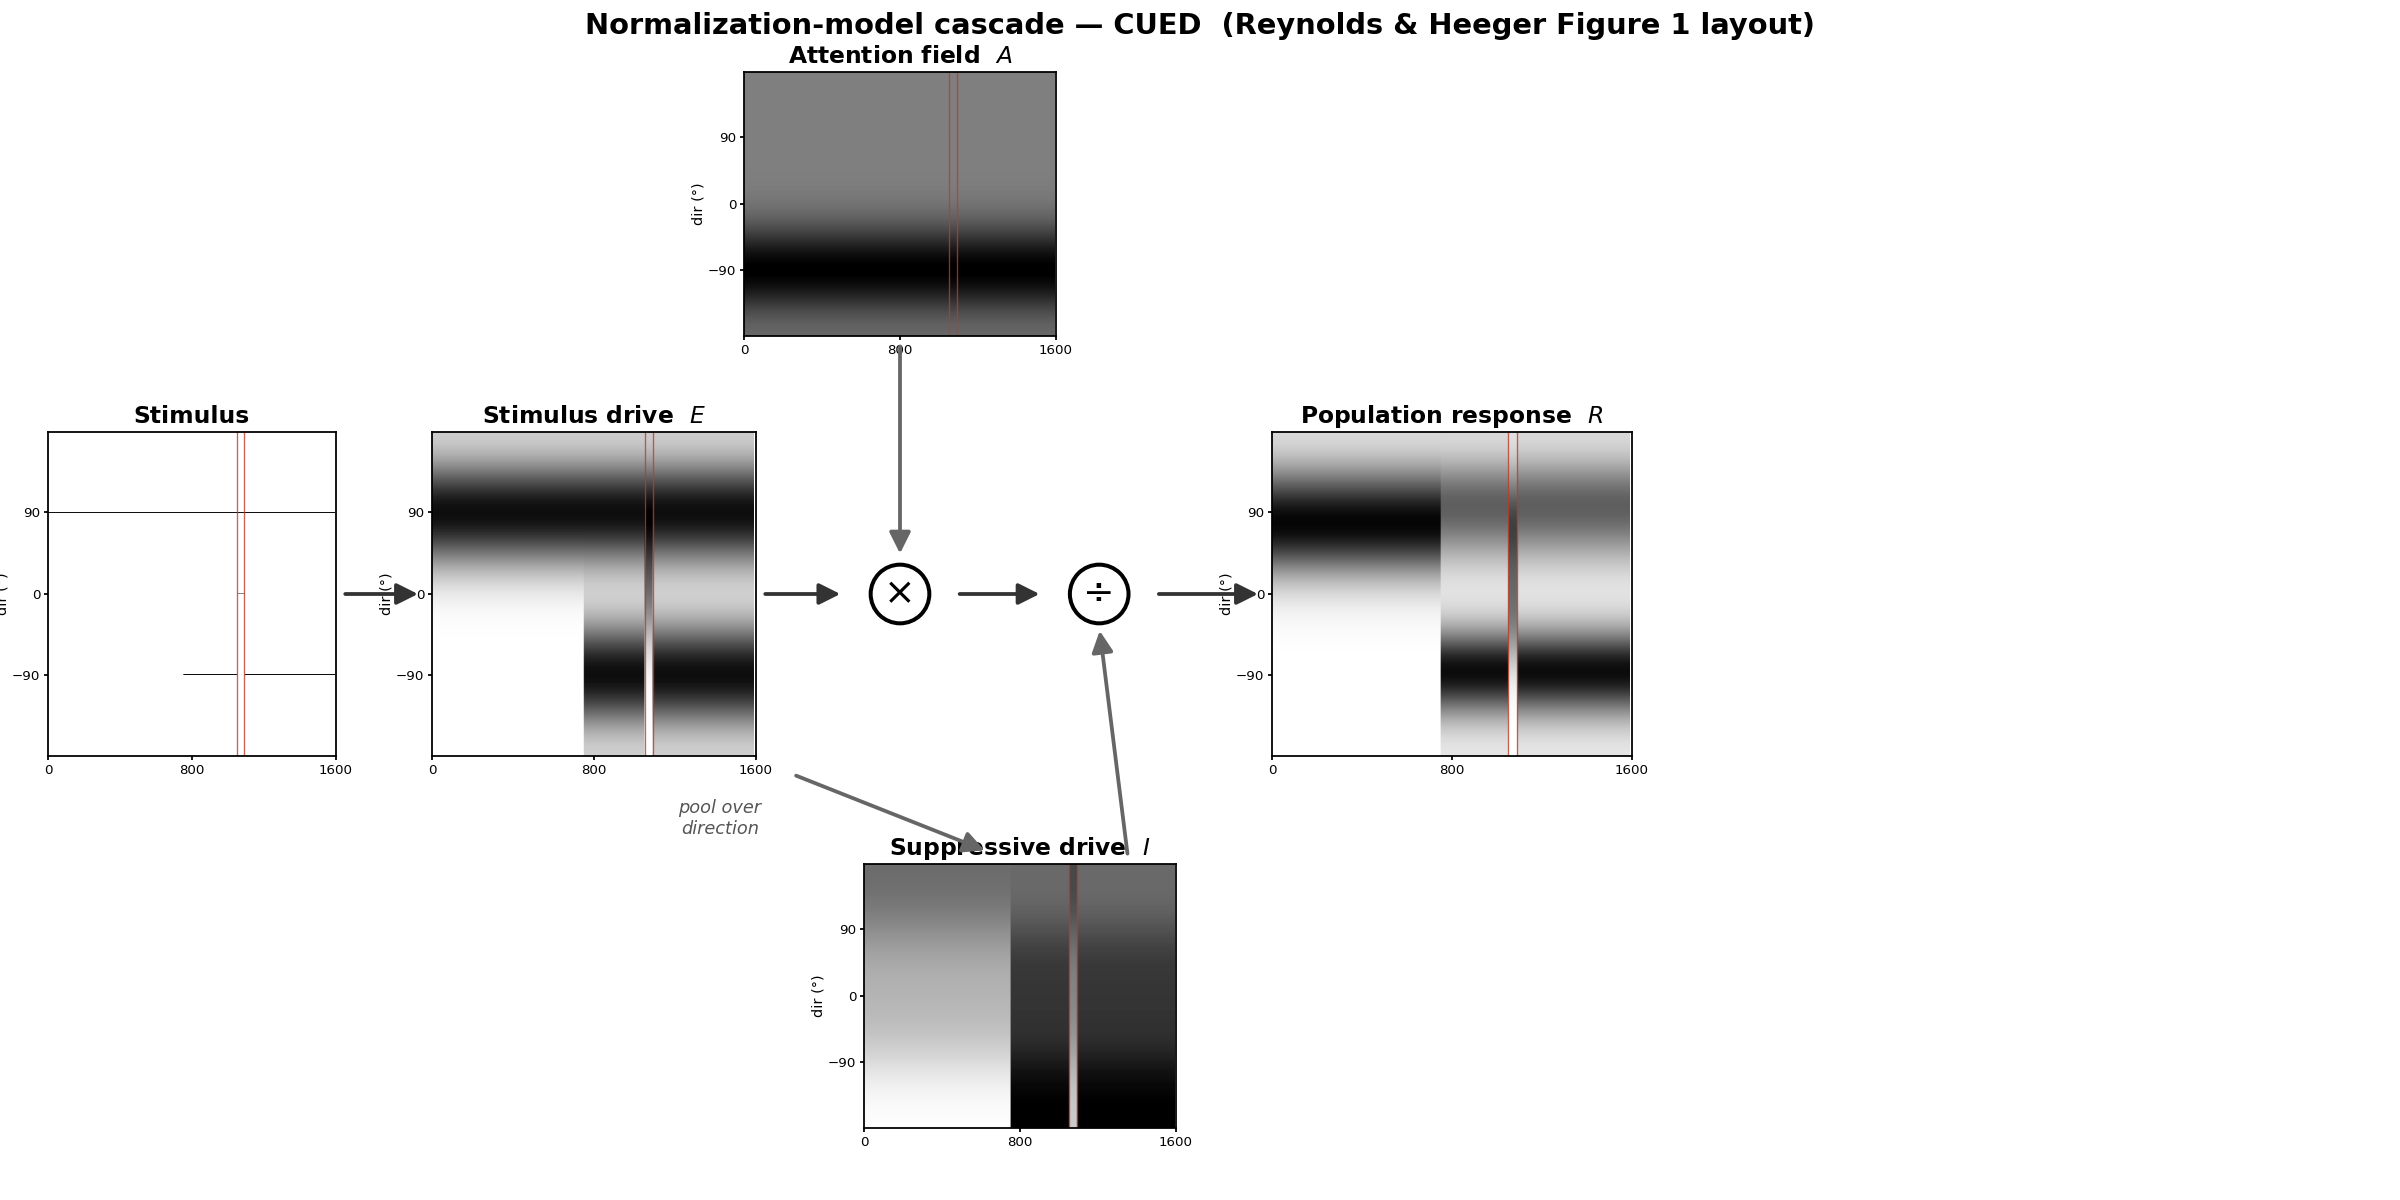
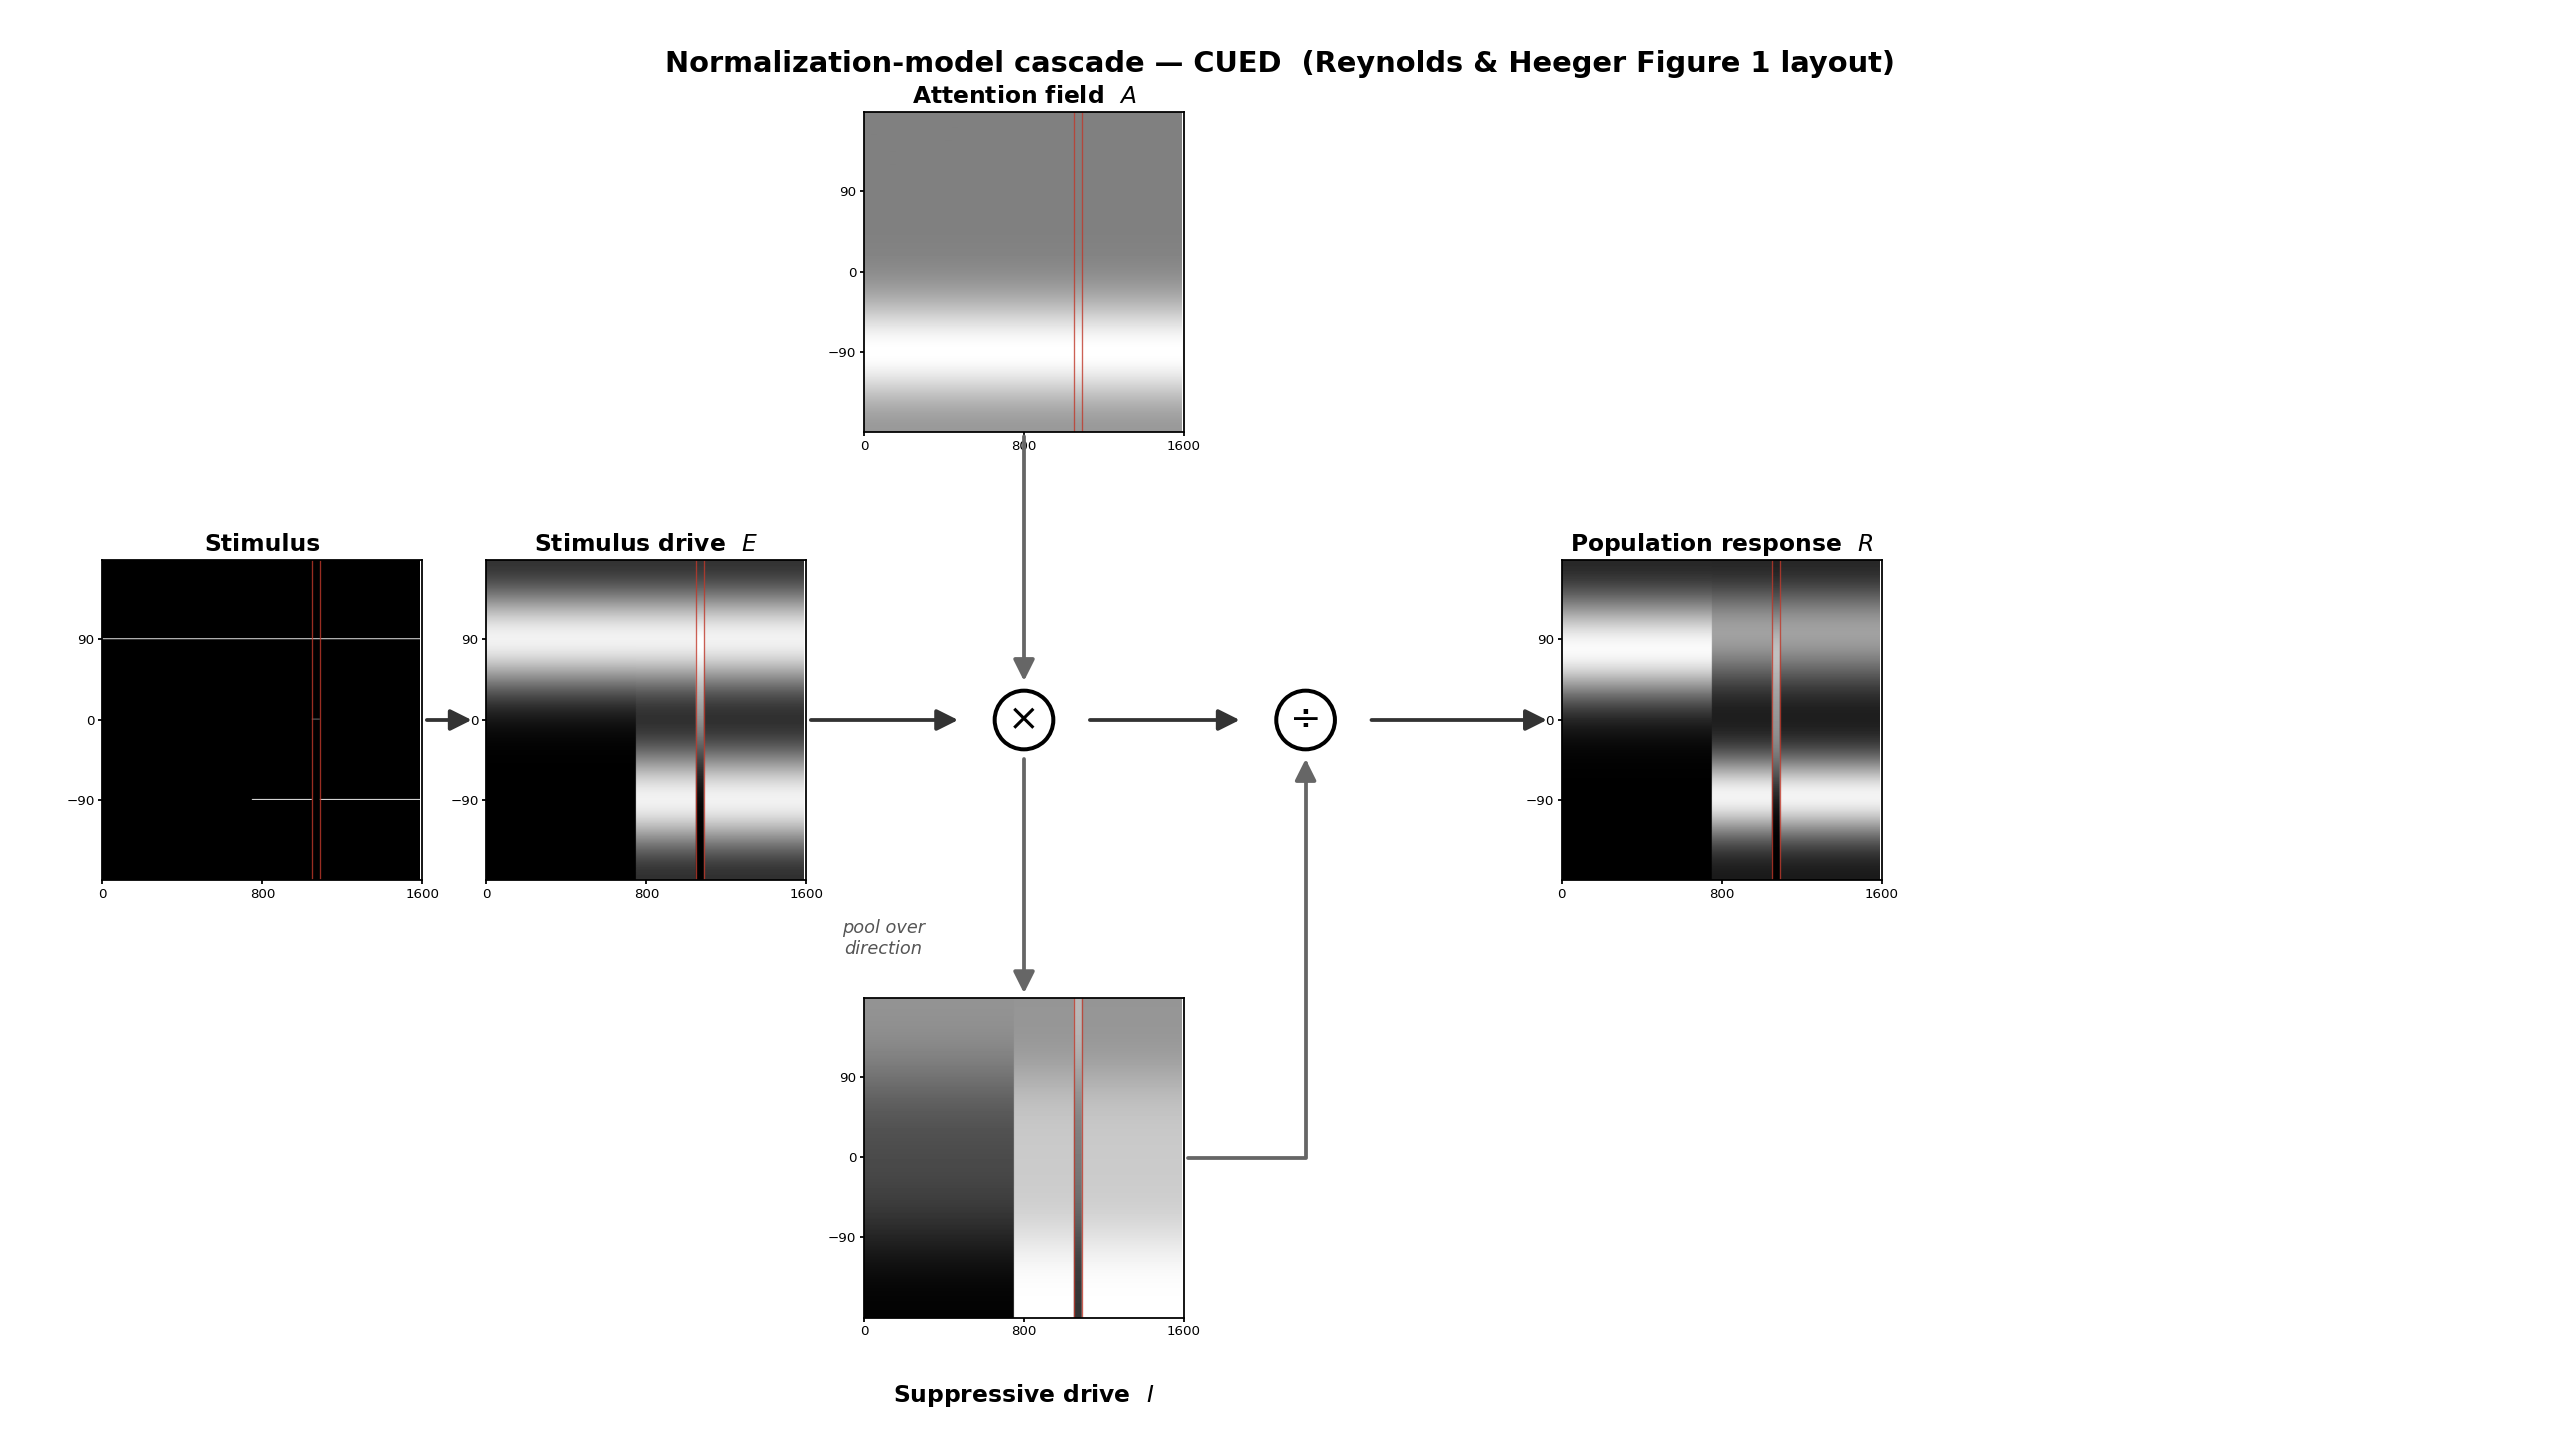
Modeling: match R&H Figure 1 layout precisely (square equal panels, white=high, aligned column, elbow ÷, pool off the product)

Changed region(s): [[0.0312, 0.3392, 0.75, 0.9867], [0.25, 0.0, 0.75, 0.3392]]

diff --git a/app/projects/object-based-attention/modeling/page.tsx b/app/projects/object-based-attention/modeling/page.tsx
@@ -158,8 +158,8 @@ export default function ModelingPage() {
             <Image
               src="/figures/modeling/rh_fig1_cued.png"
               alt="Reynolds & Heeger Figure 1 schematic, run on the delayed-onset stimulus: stimulus drive multiplied by the attention field then divided by the suppressive drive to give the population response, as direction-by-time grayscale maps"
-              width={2400}
-              height={1200}
+              width={2560}
+              height={1440}
               className="w-full h-auto"
             />
           </div>

diff --git a/content/model-rh-cascade-caption.md b/content/model-rh-cascade-caption.md
@@ -1,1 +1,1 @@
-**Figure 5.** **The normalization model on the same stimulus (Reynolds & Heeger Figure 1 layout).** R&H's model written as their Figure-1 visual equation, computed with a bit-for-bit verified port of their `attentionModel.m`: the **stimulus** drives a direction-tuned **stimulus drive** *E*, which is multiplied (×) by the **attention field** *A*(θ) — a fixed gain bump on the cued (Down / −90°) direction — and the product is divided by the broadly-pooled **suppressive drive** *I* to give the **population response** *R* = (*E*·*A*) / (*I* + σ). Each panel is a grayscale map over preferred motion direction (vertical) and time (horizontal); darker = larger. The suppressive drive is **present throughout the trial** — wherever the rotations drive the population — because it is the pooled drive *I* = *E* ⊛ (*Iₓ* ⊗ *I_θ*), not a translation-only term. The attention field replaces Stoner & Blanc's adaptation as the source of bias. Axes, kernels, and normalization are R&H's, with time substituted for their spatial receptive-field axis (σ = 10⁻⁶) — see the note below Figure 7 on exactly what that substitution does and does not change.
+**Figure 5.** **The normalization model on the same stimulus (Reynolds & Heeger Figure 1 layout).** R&H's model written as their Figure-1 visual equation, computed with a bit-for-bit verified port of their `attentionModel.m`: the **stimulus** drives a direction-tuned **stimulus drive** *E*, which is multiplied (×) by the **attention field** *A*(θ) — a fixed gain bump on the cued (Down / −90°) direction — and the **product** *E*·*A* is then divided by the **suppressive drive** *I* to give the **population response** *R* = (*E*·*A*) / (*I* + σ). The suppressive drive is that *same product, pooled* — *I* = (*E*·*A*) ⊛ (*Iₓ* ⊗ *I_θ*) — so the attention field shapes both the numerator and (through the pool) the denominator. Each panel is a grayscale map over preferred motion direction (vertical) and time (horizontal); darker = larger. The suppressive drive is **present throughout the trial** — wherever the rotations drive the population — not a translation-only term. The attention field replaces Stoner & Blanc's adaptation as the source of bias. Axes, kernels, and normalization are R&H's, with time substituted for their spatial receptive-field axis (σ = 10⁻⁶) — see the note below Figure 7 on exactly what that substitution does and does not change.